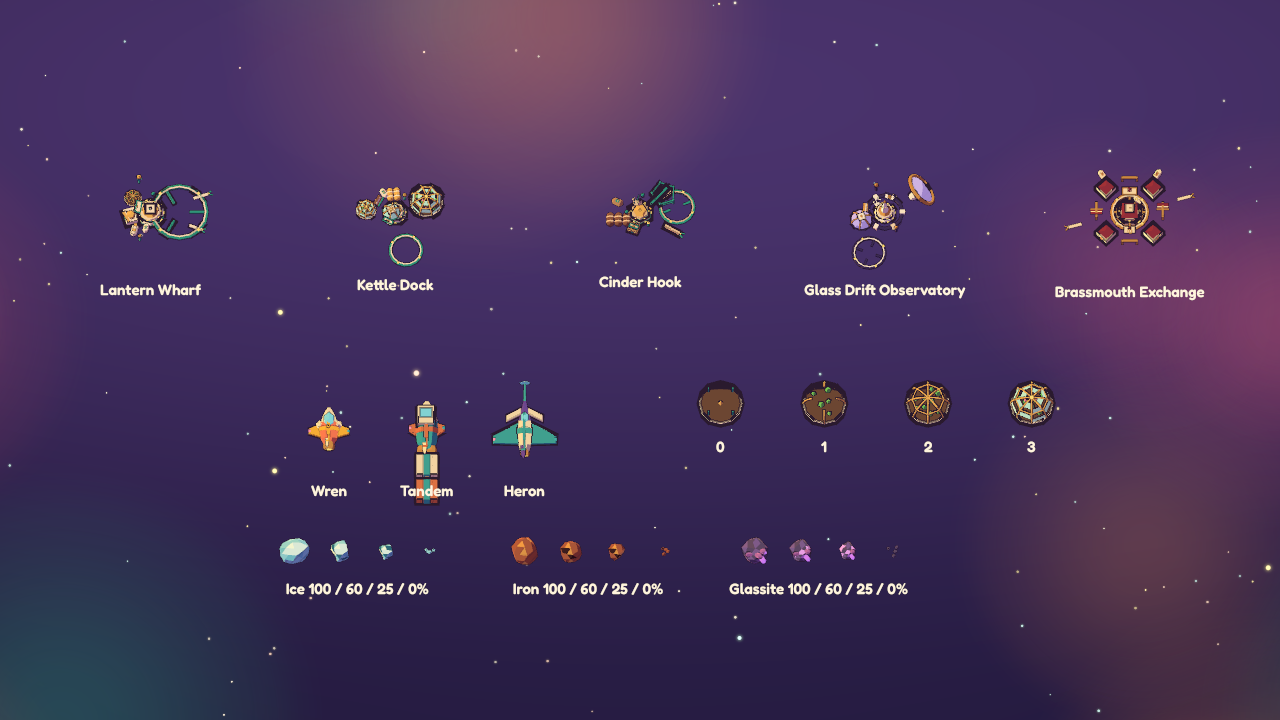
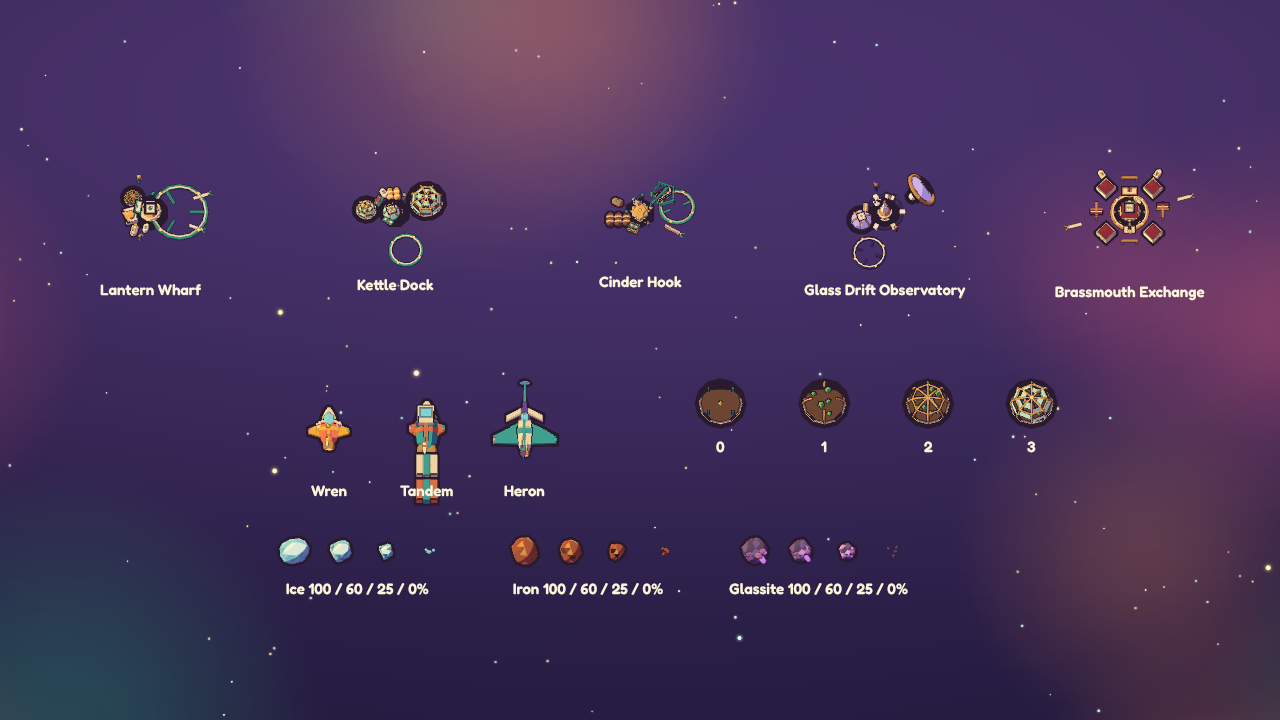
Renderer: silhouette ink by part size; refresh docs and screenshots
Silhouette ink was sized by each facet, so a hull made of thin lathe strips
fell to a hairline at gameplay zoom. Builder primitives are now parts that
share their spans (`MeshBuilder::part`); a torus is as thick as its tube,
and inner ink still fades by the facet's own size (`Vertex::facet`).

Adds before/after screenshots, the `frames` example for checking runs of
frames, and refreshes the overworld and kit gallery images.

diff --git a/slices/01-lantern-reach/crates/render/src/mesh.rs b/slices/01-lantern-reach/crates/render/src/mesh.rs
@@ -20,11 +20,14 @@ pub struct Vertex {
     /// Paint colour (linear RGB). Alpha is the glow amount: 0 is lit by the scene's lights,
     /// 1 is fully self-lit (windows, engines, greenhouse lamps).
     pub color: [f32; 4],
-    /// World-space size of the facet that owns this vertex, in mesh units.
-    /// `x` is the minor span (a sliver's thickness, or the shorter side of a plate).
-    /// `y` is the major span. The renderer fades inner ink and thins the silhouette
-    /// when these cover only a few pixels, and skips the facet below about one pixel.
+    /// Size of the part that owns this vertex, in mesh units ([`MeshBuilder::part`];
+    /// a loose triangle is its own part). `x` is the minor span (a rib's thickness, or
+    /// the shorter side of a plate), `y` the major span. The renderer thins the
+    /// silhouette when the part covers only a few pixels, and skips it below about one.
     pub span: [f32; 2],
+    /// Minor span of this vertex's own facet, in mesh units. Inner ink fades on facets
+    /// only a few pixels across, so a small rock doesn't fill in with crease lines.
+    pub facet: f32,
 }
 
 /// Triangle mesh data. Front faces wind counter-clockwise.
@@ -107,6 +110,8 @@ impl MeshData {
                     && v.span[1].is_finite()
                     && v.span[0] >= 0.0
                     && v.span[1] >= v.span[0]
+                    && v.facet.is_finite()
+                    && v.facet >= 0.0
             })
     }
 }
@@ -181,6 +186,7 @@ impl MeshBuilder {
                 outline_normal: n.into(),
                 color,
                 span,
+                facet: span[0],
             });
         }
         self.mesh.indices.extend([base, base + 1, base + 2]);
@@ -225,13 +231,45 @@ impl MeshBuilder {
             return;
         }
         let c = pts.iter().copied().sum::<Vec3>() / pts.len() as f32;
-        for i in 0..pts.len() {
-            self.tri(c, pts[i], pts[(i + 1) % pts.len()]);
+        self.part(|b| {
+            for i in 0..pts.len() {
+                b.tri(c, pts[i], pts[(i + 1) % pts.len()]);
+            }
+        });
+    }
+
+    /// Runs `f` as one part: every facet it adds takes the part's spans (its extent in
+    /// the current frame) instead of its own. The renderer sizes ink by span, so a
+    /// hull built from many thin lathe strips keeps its full silhouette weight, while
+    /// a thin antenna stays a hairline. Each primitive below is a part.
+    pub fn part(&mut self, f: impl FnOnce(&mut Self)) -> &mut Self {
+        let start = self.mesh.vertices.len();
+        f(self);
+        let m = self.transform;
+        if self.mesh.vertices.len() == start || m.determinant().abs() < 1e-12 {
+            return self;
         }
+        let to_local = m.inverse();
+        let (mut lo, mut hi) = (Vec3::splat(f32::MAX), Vec3::splat(f32::MIN));
+        for v in &self.mesh.vertices[start..] {
+            let p = to_local.transform_point3(v.position.into());
+            (lo, hi) = (lo.min(p), hi.max(p));
+        }
+        let axis = |v: glam::Vec4| Vec3::new(v.x, v.y, v.z).length();
+        let ext = (hi - lo) * Vec3::new(axis(m.x_axis), axis(m.y_axis), axis(m.z_axis));
+        let span = extent_span(ext);
+        for v in &mut self.mesh.vertices[start..] {
+            v.span = span;
+        }
+        self
     }
 
     /// A box centred on the origin.
     pub fn cuboid(&mut self, size: Vec3) {
+        self.part(|b| b.cuboid_faces(size));
+    }
+
+    fn cuboid_faces(&mut self, size: Vec3) {
         let h = size * 0.5;
         let p = |x: f32, y: f32, z: f32| Vec3::new(x * h.x, y * h.y, z * h.z);
         let faces = [
@@ -280,6 +318,10 @@ impl MeshBuilder {
     /// A surface of revolution around +Z. `profile` lists `(radius, z)` from bottom to top;
     /// a radius of 0 closes that end to a point. Ends with a radius are capped flat.
     pub fn lathe(&mut self, profile: &[(f32, f32)], segments: u32, phase: f32) {
+        self.part(|b| b.lathe_faces(profile, segments, phase));
+    }
+
+    fn lathe_faces(&mut self, profile: &[(f32, f32)], segments: u32, phase: f32) {
         let segments = segments.max(3);
         let ring = |r: f32, z: f32, i: u32| {
             let a = phase + i as f32 / segments as f32 * std::f32::consts::TAU;
@@ -334,6 +376,31 @@ impl MeshBuilder {
         segments: u32,
         sides: u32,
     ) {
+        let start = self.mesh.vertices.len();
+        self.torus_faces(radius, tube_width, tube_height, segments, sides);
+        // A ring is as thick as its tube, however wide it is: a thin docking ring
+        // seen from afar keeps a hairline, not an ink-filled disc.
+        let m = self.transform;
+        let axis = |v: glam::Vec4| Vec3::new(v.x, v.y, v.z).length();
+        let s = (axis(m.x_axis) + axis(m.y_axis)) * 0.5;
+        let span = extent_span(Vec3::new(
+            tube_width * s,
+            tube_width * s,
+            (2.0 * radius + tube_width) * s,
+        ));
+        for v in &mut self.mesh.vertices[start..] {
+            v.span = span;
+        }
+    }
+
+    fn torus_faces(
+        &mut self,
+        radius: f32,
+        tube_width: f32,
+        tube_height: f32,
+        segments: u32,
+        sides: u32,
+    ) {
         let segments = segments.max(3);
         let sides = sides.max(3);
         let tau = std::f32::consts::TAU;
@@ -353,6 +420,10 @@ impl MeshBuilder {
     /// Extrudes a 2D outline (counter-clockwise, star-shaped) from `z = 0` to `z = height`,
     /// with the top face scaled by `top_scale` around its centroid for a bevelled look.
     pub fn extrude(&mut self, outline: &[Vec2], height: f32, top_scale: f32) {
+        self.part(|b| b.extrude_faces(outline, height, top_scale));
+    }
+
+    fn extrude_faces(&mut self, outline: &[Vec2], height: f32, top_scale: f32) {
         if outline.len() < 3 {
             return;
         }
@@ -390,6 +461,7 @@ impl MeshBuilder {
                 outline_normal: tf(v.outline_normal),
                 color: v.color,
                 span: [v.span[0] * smin, v.span[1] * smax],
+                facet: v.facet * smin,
             });
         }
         for &[a, b, c] in other.indices.as_chunks::<3>().0 {
@@ -411,13 +483,15 @@ impl MeshBuilder {
 }
 
 /// Minor and major world-space spans of a triangle.
-///
-/// A near-zero axis is the face plane, not the part's thickness: a plate keeps the
-/// shorter of its two large sides, and a rib keeps its thickness.
 fn facet_span(a: Vec3, b: Vec3, c: Vec3) -> [f32; 2] {
-    let lo = a.min(b.min(c));
-    let hi = a.max(b.max(c));
-    let ext = hi - lo;
+    extent_span(a.max(b.max(c)) - a.min(b.min(c)))
+}
+
+/// Minor and major spans of a box with these side lengths.
+///
+/// A near-zero axis is a face plane, not the part's thickness: a plate keeps the
+/// shorter of its two large sides, and a rib keeps its thickness.
+fn extent_span(ext: Vec3) -> [f32; 2] {
     let mut axes = [ext.x.abs(), ext.y.abs(), ext.z.abs()];
     axes.sort_by(|l, r| l.total_cmp(r));
     let longest = axes[2].max(1e-4);
@@ -544,6 +618,32 @@ mod tests {
             };
             assert!((centroid - centre).dot(Vec3::from(v.normal)) > 0.0);
         }
+    }
+
+    #[test]
+    fn a_part_shares_its_spans() {
+        // A lathe body's strips are thin, but the body isn't: every facet takes the
+        // body's thickness, so its silhouette ink is drawn at full weight.
+        let mut b = MeshBuilder::new();
+        b.with(Mat4::from_rotation_y(0.7), |b| {
+            b.lathe(&[(0.0, -3.0), (1.2, -1.0), (1.0, 2.0), (0.0, 3.0)], 12, 0.0)
+        });
+        let body = b.build();
+        let first = body.vertices[0].span;
+        assert!(body.vertices.iter().any(|v| v.facet < first[0] * 0.5));
+        assert!(body.vertices.iter().all(|v| v.span == first));
+        assert!(
+            (first[0] - 2.4).abs() < 0.1 && (first[1] - 6.0).abs() < 0.1,
+            "{first:?}"
+        );
+
+        // A diagonal rib stays a rib: spans are measured in the part's own frame.
+        let mut b = MeshBuilder::new();
+        b.with(Mat4::from_rotation_z(0.8), |b| {
+            b.cuboid(Vec3::new(8.0, 0.2, 0.2))
+        });
+        let rib = b.build();
+        assert!(rib.vertices[0].span[0] < 0.25, "{:?}", rib.vertices[0].span);
     }
 
     #[test]

diff --git a/slices/01-lantern-reach/crates/render/src/kit/rock.rs b/slices/01-lantern-reach/crates/render/src/kit/rock.rs
@@ -207,33 +207,35 @@ pub fn rock(params: &RockParams, seed: u64) -> MeshData {
 
     let scale = radius * rock_scale(remaining);
     let mut paint = rng.fork(4);
-    for ((t, &(g, f)), &c) in tris.iter().zip(&group).zip(&crack) {
-        let [a, bb, cc] = [pos[t[0]], pos[t[1]], pos[t[2]]];
-        let normal = (bb - a).cross(cc - a).normalize_or_zero();
-        // Caps are chosen on the uncut rock, so a chip never flips one.
-        let [la, lb, lc] = [lumpy[t[0]], lumpy[t[1]], lumpy[t[2]]];
-        let upright = (lb - la).cross(lc - la).normalize_or_zero().z > 0.82;
-        let speckle = paint.f32() < style.speckle_rate;
-        // A mined face shows a warm interior, like a cut fruit, coming through as the
-        // cut reaches it. A crack darkens to its ink colour as it opens.
-        let skin = match style.cap {
-            Some(cap) if upright => cap,
-            _ if speckle => style.speckle,
-            _ => style.base,
-        };
-        let color = if g > 0 {
-            skin.lerp(style.bite, f)
-        } else {
-            skin
-        };
-        b.paint(color.lerp(style.crack, c), 0.0);
-        let normals = t.map(|i| {
-            let skin = smooth[i][0].try_normalize().unwrap_or(normal);
-            let cut = smooth[i][g].try_normalize().unwrap_or(normal);
-            skin.lerp(cut, f).try_normalize().unwrap_or(normal)
-        });
-        b.tri_shaded(a * scale, bb * scale, cc * scale, normals);
-    }
+    b.part(|b| {
+        for ((t, &(g, f)), &c) in tris.iter().zip(&group).zip(&crack) {
+            let [a, bb, cc] = [pos[t[0]], pos[t[1]], pos[t[2]]];
+            let normal = (bb - a).cross(cc - a).normalize_or_zero();
+            // Caps are chosen on the uncut rock, so a chip never flips one.
+            let [la, lb, lc] = [lumpy[t[0]], lumpy[t[1]], lumpy[t[2]]];
+            let upright = (lb - la).cross(lc - la).normalize_or_zero().z > 0.82;
+            let speckle = paint.f32() < style.speckle_rate;
+            // A mined face shows a warm interior, like a cut fruit, coming through as the
+            // cut reaches it. A crack darkens to its ink colour as it opens.
+            let skin = match style.cap {
+                Some(cap) if upright => cap,
+                _ if speckle => style.speckle,
+                _ => style.base,
+            };
+            let color = if g > 0 {
+                skin.lerp(style.bite, f)
+            } else {
+                skin
+            };
+            b.paint(color.lerp(style.crack, c), 0.0);
+            let normals = t.map(|i| {
+                let skin = smooth[i][0].try_normalize().unwrap_or(normal);
+                let cut = smooth[i][g].try_normalize().unwrap_or(normal);
+                skin.lerp(cut, f).try_normalize().unwrap_or(normal)
+            });
+            b.tri_shaded(a * scale, bb * scale, cc * scale, normals);
+        }
+    });
 
     // Glassite grows glowing crystals; they break off as the rock is mined.
     if params.kind == RockKind::Glassite {

diff --git a/slices/01-lantern-reach/crates/render/src/renderer/mod.rs b/slices/01-lantern-reach/crates/render/src/renderer/mod.rs
@@ -723,6 +723,7 @@ impl Renderer {
             outline_normal: [0.0, 0.0, 1.0],
             color: [0.0; 4],
             span: [0.0; 2],
+            facet: 0.0,
         }];
         let (verts, idx): (&[Vertex], &[u32]) = if mesh.is_empty() {
             (&zero, &[0, 0, 0])
@@ -1561,7 +1562,8 @@ fn create_pipelines(
         array_stride: std::mem::size_of::<Vertex>() as u64,
         step_mode: wgpu::VertexStepMode::Vertex,
         attributes: &wgpu::vertex_attr_array![
-            0 => Float32x3, 1 => Float32x3, 2 => Float32x3, 3 => Float32x4, 4 => Float32x2
+            0 => Float32x3, 1 => Float32x3, 2 => Float32x3, 3 => Float32x4, 4 => Float32x2,
+            5 => Float32
         ],
     };
     let fx_vertex_layout = wgpu::VertexBufferLayout {

diff --git a/slices/01-lantern-reach/crates/render/README.md b/slices/01-lantern-reach/crates/render/README.md
@@ -10,6 +10,14 @@ hands it to a `Renderer`, so the simulation never knows how anything is drawn.
 
 ![Every kit piece: stations, greenhouse stages, hulls, rocks as they are mined](docs/kit-gallery.png)
 
+Shading stays steady while a rock is mined and turns (top), the mining beam runs from
+the nose to the rock's surface (left), and silhouette ink follows the part, not the
+facet (right):
+
+![Two frames of a mined rock and their difference, before and after](docs/render-fix-shading.png)
+
+![The mining beam, before and after](docs/render-fix-beam.png) ![Hull ink, before and after](docs/render-fix-ink.png)
+
 ## Run it
 
 From `slices/01-lantern-reach/`:
@@ -19,6 +27,7 @@ cargo run -p render --example showcase                    # window: WASD, Space 
 cargo run -p render --example shot -- out.png             # headless PNG of the demo world
 cargo run -p render --example shot -- out.png --paused    # ...with the PAUSED card
 cargo run -p render --example shot -- out.png --gallery   # every kit piece, labelled
+cargo run -p render --example frames -- out_dir           # consecutive frames of a rock being mined
 cargo test -p render                                      # CPU tests (no window, GPU or network)
 cargo test -p render -- --ignored                         # GPU tests (needs an adapter)
 ```
@@ -81,7 +90,7 @@ let png = r.render_to_rgba(&scene)?.encode_png()?;       // any renderer: read b
 | `Material` | `tint`, `shadow`, `highlight`, `bands` (2 or 3), `outline`, `outline_px`, `emissive`, `hatch` (serde) |
 | `Line` | `path`, `circle`, `beam`, `.dashed(dash, gap)`, `.wobbly(amplitude)`, width in world units |
 | `Overlay` | `panels: Vec<Panel>`, `texts: Vec<Text>`, `paused: Option<PausedCard>` |
-| `MeshBuilder`, `MeshData` | build your own flat-shaded meshes (`cuboid`, `lathe`, `frustum`, `torus`, `extrude`, `quad`, `tri`) |
+| `MeshBuilder`, `MeshData` | build your own meshes (`cuboid`, `lathe`, `frustum`, `torus`, `extrude`, `quad`, `tri`, `tri_shaded`, `part`); `MeshData::raycast` |
 | `palette` | the warm swatches (`INK`, `PARCHMENT`, `CORAL`, `MUSTARD`, `TEAL`, `LANTERN`, ...) |
 | `demo` | sample code: a `DemoWorld` mapped to a `Scene`, and `gallery()` |
 
@@ -97,9 +106,12 @@ All generators are CPU-side, deterministic for a seed and unit tested.
   empty; the Wren preset carries the kettle.
 - `kit::rock(&RockParams { kind, radius, remaining }, seed)`: ice, iron or glassite. As
   `remaining` drops the rock shrinks (`kit::rock_scale`), gets planar chips with a warm
-  bitten face and inked cracks, and glassite loses crystals; at 0 it is a few pebbles with
-  warm caps. The same seed keeps the same rock. Re-mesh with `update_mesh` when `remaining`
-  crosses a visible step (the demo uses 1/20).
+  bitten face and inked cracks, and glassite crystals wear down and break off; at 0 it is
+  a few pebbles with warm caps. The same seed keeps the same rock, and chips, cracks and
+  crystals grow in gradually, so one step changes it only a little. Re-mesh with
+  `update_mesh` when `remaining` crosses a visible step (the demo and the game use 1/20),
+  and in between scale the instance by `rock_scale(now) / rock_scale(meshed)` so it
+  shrinks smoothly.
 - `kit::station(&StationRecipe)`: a station is a serde recipe of parts, a palette and
   decals (`stripe`, `chevron`, `sigil`, `number`). `StationRecipe::validate()` reports
   every problem with its part index; `validate_art` checks the recipe against
@@ -140,24 +152,35 @@ One MSAA (4x) world pass with a depth buffer, an inner-ink pass, then an overlay
 1. Backdrop: a vertical gradient with a soft vignette, then instanced soft nebula puffs and
    stars on repeating tiles.
 2. Meshes: cel shading with 2–3 hard tone bands from a half-Lambert key light, warm violet
-   shadows (never gray), a hard rim light, stepped point-light pools, screen-space hatching
-   in the shadow band, and self-lit paint (vertex alpha) for windows, lanterns and engines.
+   shadows (never gray), a hard rim light, stepped point-light pools, hatching in the shadow
+   band, and self-lit paint (vertex alpha) for windows, lanterns and engines. Band edges
+   are hard steps smoothed over one pixel; hatching is a fixed pixel spacing anchored to
+   the object, so it moves with it rather than swimming as the camera pans. Most kit parts
+   are flat shaded; a rock's skin carries smooth normals (`MeshBuilder::tri_shaded`), so
+   its bands follow the lumps as it turns instead of whole facets flipping band.
 3. Ink outlines: an inverted hull. Back faces are pushed out along normals averaged across
-   hard edges, so outlines don't crack at corners. A large facet keeps the art-bible weight
-   at any zoom; a small one thins to a hairline, and a facet under about a pixel is not
-   drawn. Works the same with a perspective camera. This is the silhouette only.
-4. Inner ink: a second, non-multisampled pass writes an octahedral normal, a 16-bit view
-   depth and the unlit paint into two `Rgba8Unorm` targets. Paint alpha stores how many
-   pixels the facet's minor axis covers. A fullscreen pass then draws a line where
+   hard edges, so outlines don't crack at corners. Weight follows the size of the part a
+   facet belongs to (`MeshBuilder::part`; every primitive is one): a part a dozen pixels
+   thick keeps the art-bible weight, however finely it is faceted; a thinner one thins to
+   a hairline, and a part under about a pixel is not drawn. Works the same with a
+   perspective camera. This is the silhouette only.
+4. Inner ink: a second, non-multisampled pass writes an octahedral normal and a 16-bit
+   view depth into an `Rgba16Float` target (8-bit normals wobbled enough to flicker a crease
+   near the art bible's angle as a ship turned) and the unlit paint into an `Rgba8Unorm`
+   one. Paint alpha stores how many pixels the facet's own minor axis covers. A fullscreen pass then draws a line where
    neighbouring surface pixels crease harder than the art bible's angle, where the paint
    changes, or where depth breaks the local plane by a step that is large for that view
    depth. A continuous slope is not an edge, and features only a few pixels across get no
    inner line. Pixels with no surface neighbour are left to the hull outline.
-   `textureLoad` and plain unorm targets keep the pass the same on DX12, Vulkan and Metal.
+   `textureLoad` and core-WebGPU formats keep the pass the same on DX12, Vulkan and Metal.
    Widths come from `assets/art-bible.toml`.
 5. Lines, beams and glows: drawn after inner ink, depth-tested against the mesh, so a beam
    or glow in front of a crease stays visible. Camera-facing ribbons with soft ink-edged
-   sides, dashes and hand-drawn wobble; additive beams and glows.
+   sides, dashes and hand-drawn wobble; additive beams and glows. A glow sits its radius,
+   and a beam half its width, towards the camera along the line of sight (same pixels), so
+   the surface it lands on can't cut it. Beams have soft ends and a shimmer measured in
+   beam widths, which reads the same at every zoom. To land a beam on a mesh, end it at
+   `MeshData::raycast` (the demo and the game aim at the rock's centre).
 6. Overlay: rounded SDF panels with an ink border and soft shadow, glyphon text, and the
    PAUSED card (dimmed world, big centred card) drawn above everything.
 
